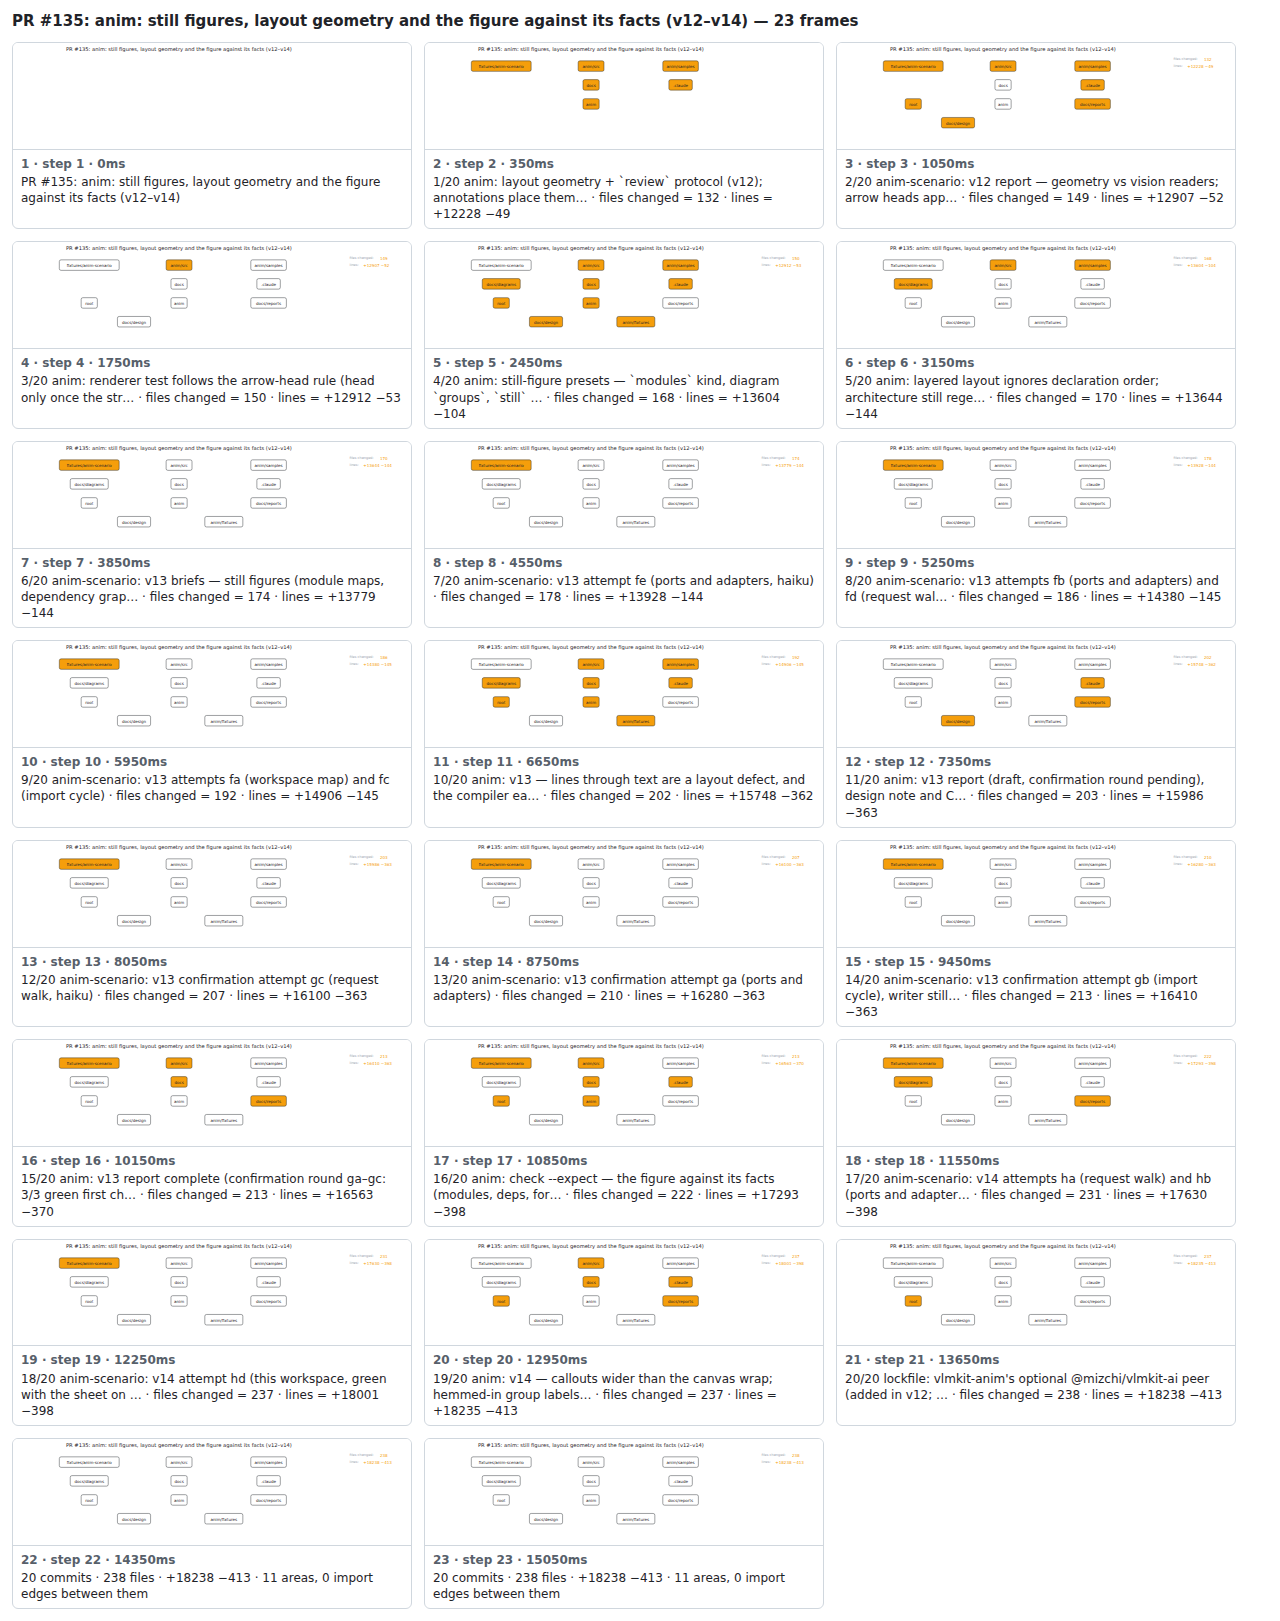
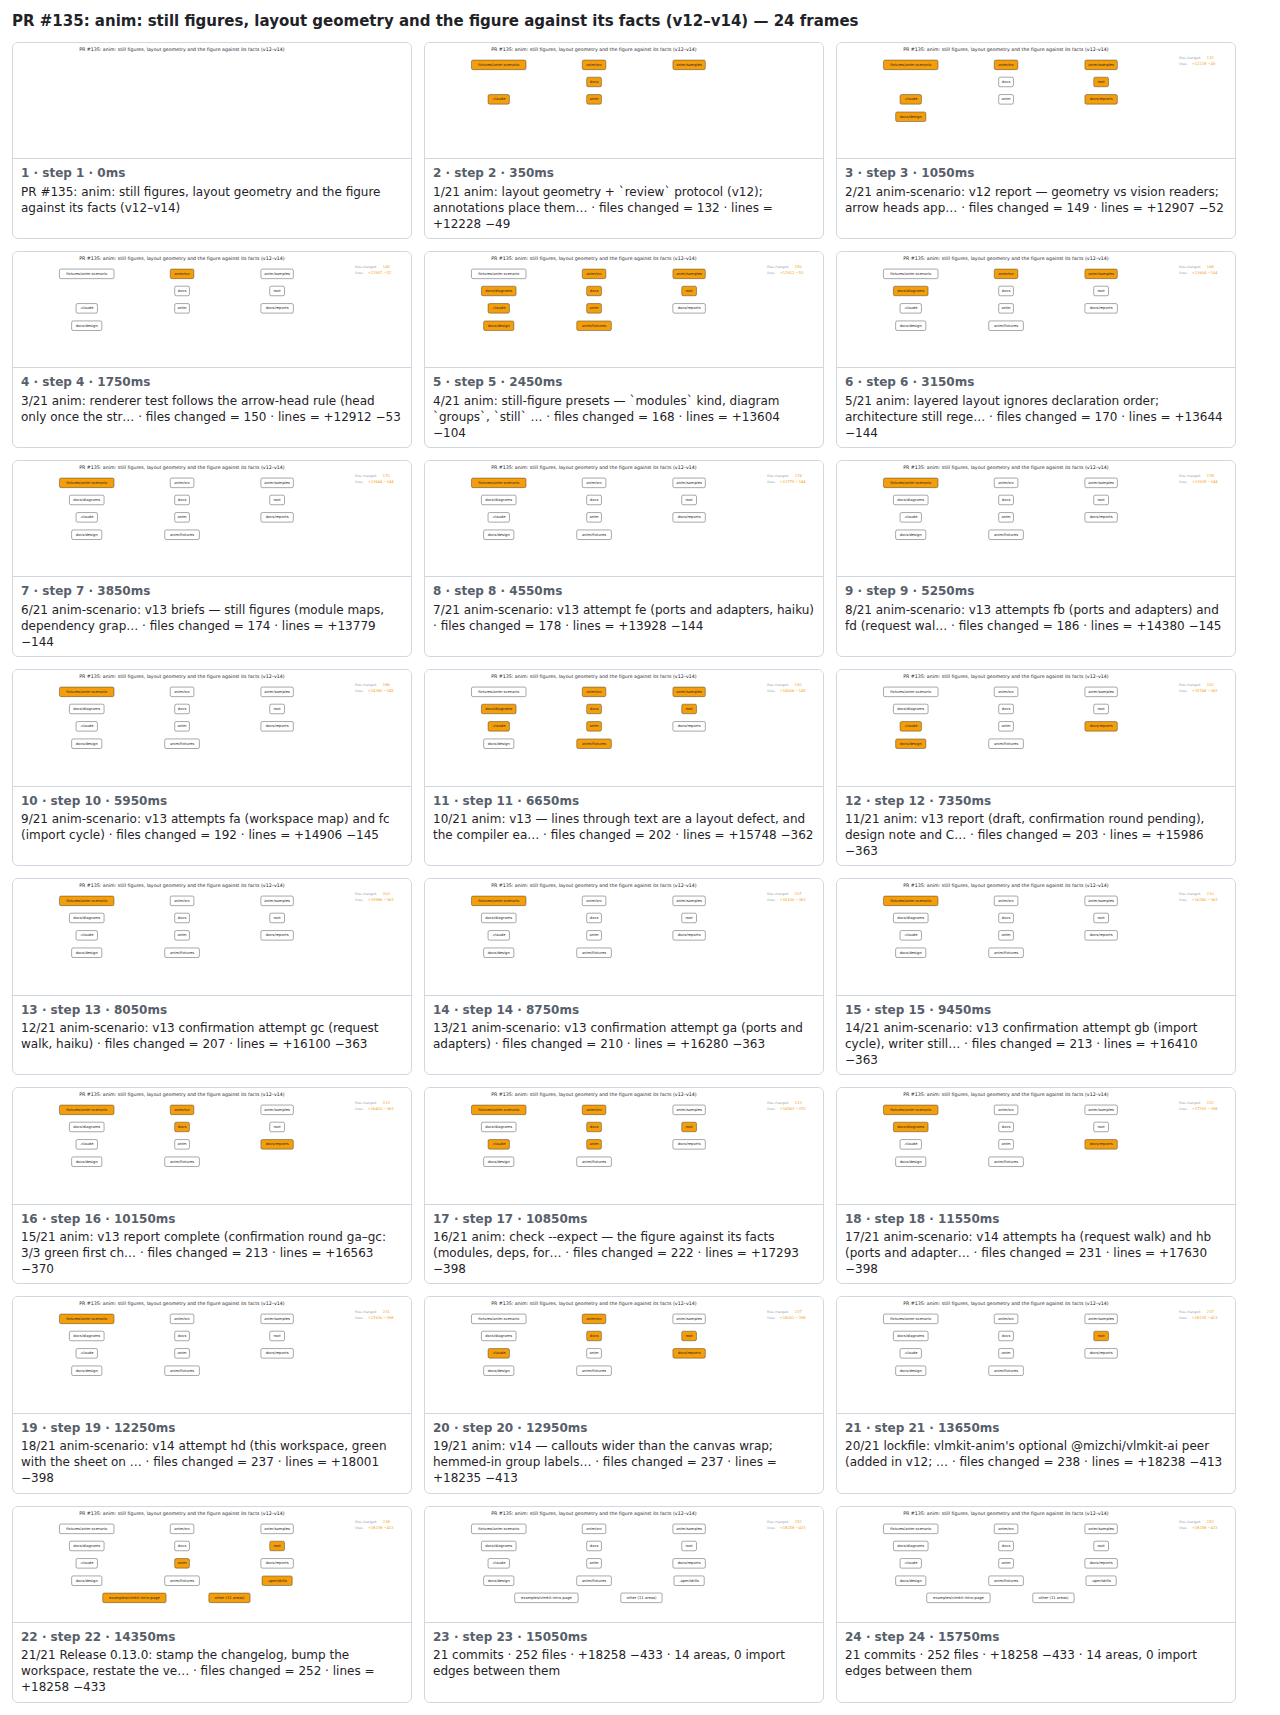
PR #135 @ b01bb18

diff --git a/135/change-map.md b/135/change-map.md
@@ -7,30 +7,31 @@
 ![steps](./change-map.sheet.png)
 
 ```
-PR #135: anim: still figures, layout geometry and the figure against its facts (v12–v14) — 23 steps, 15260ms, 17 nodes
+PR #135: anim: still figures, layout geometry and the figure against its facts (v12–v14) — 24 steps, 15960ms, 20 nodes
  1. [    0ms] PR #135: anim: still figures, layout geometry and the figure against its facts (v12–v14)
- 2. [  350ms] 1/20 anim: layout geometry + `review` protocol (v12); annotations place them… · files changed = 132 · lines = +12228 −49
- 3. [ 1050ms] 2/20 anim-scenario: v12 report — geometry vs vision readers; arrow heads app… · files changed = 149 · lines = +12907 −52
- 4. [ 1750ms] 3/20 anim: renderer test follows the arrow-head rule (head only once the str… · files changed = 150 · lines = +12912 −53
- 5. [ 2450ms] 4/20 anim: still-figure presets — `modules` kind, diagram `groups`, `still` … · files changed = 168 · lines = +13604 −104
- 6. [ 3150ms] 5/20 anim: layered layout ignores declaration order; architecture still rege… · files changed = 170 · lines = +13644 −144
- 7. [ 3850ms] 6/20 anim-scenario: v13 briefs — still figures (module maps, dependency grap… · files changed = 174 · lines = +13779 −144
- 8. [ 4550ms] 7/20 anim-scenario: v13 attempt fe (ports and adapters, haiku) · files changed = 178 · lines = +13928 −144
- 9. [ 5250ms] 8/20 anim-scenario: v13 attempts fb (ports and adapters) and fd (request wal… · files changed = 186 · lines = +14380 −145
-10. [ 5950ms] 9/20 anim-scenario: v13 attempts fa (workspace map) and fc (import cycle) · files changed = 192 · lines = +14906 −145
-11. [ 6650ms] 10/20 anim: v13 — lines through text are a layout defect, and the compiler ea… · files changed = 202 · lines = +15748 −362
-12. [ 7350ms] 11/20 anim: v13 report (draft, confirmation round pending), design note and C… · files changed = 203 · lines = +15986 −363
-13. [ 8050ms] 12/20 anim-scenario: v13 confirmation attempt gc (request walk, haiku) · files changed = 207 · lines = +16100 −363
-14. [ 8750ms] 13/20 anim-scenario: v13 confirmation attempt ga (ports and adapters) · files changed = 210 · lines = +16280 −363
-15. [ 9450ms] 14/20 anim-scenario: v13 confirmation attempt gb (import cycle), writer still… · files changed = 213 · lines = +16410 −363
-16. [10150ms] 15/20 anim: v13 report complete (confirmation round ga–gc: 3/3 green first ch… · files changed = 213 · lines = +16563 −370
-17. [10850ms] 16/20 anim: check --expect — the figure against its facts (modules, deps, for… · files changed = 222 · lines = +17293 −398
-18. [11550ms] 17/20 anim-scenario: v14 attempts ha (request walk) and hb (ports and adapter… · files changed = 231 · lines = +17630 −398
-19. [12250ms] 18/20 anim-scenario: v14 attempt hd (this workspace, green with the sheet on … · files changed = 237 · lines = +18001 −398
-20. [12950ms] 19/20 anim: v14 — callouts wider than the canvas wrap; hemmed-in group labels… · files changed = 237 · lines = +18235 −413
-21. [13650ms] 20/20 lockfile: vlmkit-anim's optional @mizchi/vlmkit-ai peer (added in v12; … · files changed = 238 · lines = +18238 −413
-22. [14350ms] 20 commits · 238 files · +18238 −413 · 11 areas, 0 import edges between them
-23. [15050ms] (end)
+ 2. [  350ms] 1/21 anim: layout geometry + `review` protocol (v12); annotations place them… · files changed = 132 · lines = +12228 −49
+ 3. [ 1050ms] 2/21 anim-scenario: v12 report — geometry vs vision readers; arrow heads app… · files changed = 149 · lines = +12907 −52
+ 4. [ 1750ms] 3/21 anim: renderer test follows the arrow-head rule (head only once the str… · files changed = 150 · lines = +12912 −53
+ 5. [ 2450ms] 4/21 anim: still-figure presets — `modules` kind, diagram `groups`, `still` … · files changed = 168 · lines = +13604 −104
+ 6. [ 3150ms] 5/21 anim: layered layout ignores declaration order; architecture still rege… · files changed = 170 · lines = +13644 −144
+ 7. [ 3850ms] 6/21 anim-scenario: v13 briefs — still figures (module maps, dependency grap… · files changed = 174 · lines = +13779 −144
+ 8. [ 4550ms] 7/21 anim-scenario: v13 attempt fe (ports and adapters, haiku) · files changed = 178 · lines = +13928 −144
+ 9. [ 5250ms] 8/21 anim-scenario: v13 attempts fb (ports and adapters) and fd (request wal… · files changed = 186 · lines = +14380 −145
+10. [ 5950ms] 9/21 anim-scenario: v13 attempts fa (workspace map) and fc (import cycle) · files changed = 192 · lines = +14906 −145
+11. [ 6650ms] 10/21 anim: v13 — lines through text are a layout defect, and the compiler ea… · files changed = 202 · lines = +15748 −362
+12. [ 7350ms] 11/21 anim: v13 report (draft, confirmation round pending), design note and C… · files changed = 203 · lines = +15986 −363
+13. [ 8050ms] 12/21 anim-scenario: v13 confirmation attempt gc (request walk, haiku) · files changed = 207 · lines = +16100 −363
+14. [ 8750ms] 13/21 anim-scenario: v13 confirmation attempt ga (ports and adapters) · files changed = 210 · lines = +16280 −363
+15. [ 9450ms] 14/21 anim-scenario: v13 confirmation attempt gb (import cycle), writer still… · files changed = 213 · lines = +16410 −363
+16. [10150ms] 15/21 anim: v13 report complete (confirmation round ga–gc: 3/3 green first ch… · files changed = 213 · lines = +16563 −370
+17. [10850ms] 16/21 anim: check --expect — the figure against its facts (modules, deps, for… · files changed = 222 · lines = +17293 −398
+18. [11550ms] 17/21 anim-scenario: v14 attempts ha (request walk) and hb (ports and adapter… · files changed = 231 · lines = +17630 −398
+19. [12250ms] 18/21 anim-scenario: v14 attempt hd (this workspace, green with the sheet on … · files changed = 237 · lines = +18001 −398
+20. [12950ms] 19/21 anim: v14 — callouts wider than the canvas wrap; hemmed-in group labels… · files changed = 237 · lines = +18235 −413
+21. [13650ms] 20/21 lockfile: vlmkit-anim's optional @mizchi/vlmkit-ai peer (added in v12; … · files changed = 238 · lines = +18238 −413
+22. [14350ms] 21/21 Release 0.13.0: stamp the changelog, bump the workspace, restate the ve… · files changed = 252 · lines = +18258 −433
+23. [15050ms] 21 commits · 252 files · +18258 −433 · 14 areas, 0 import edges between them
+24. [15750ms] (end)
 ```
 
 </details>
